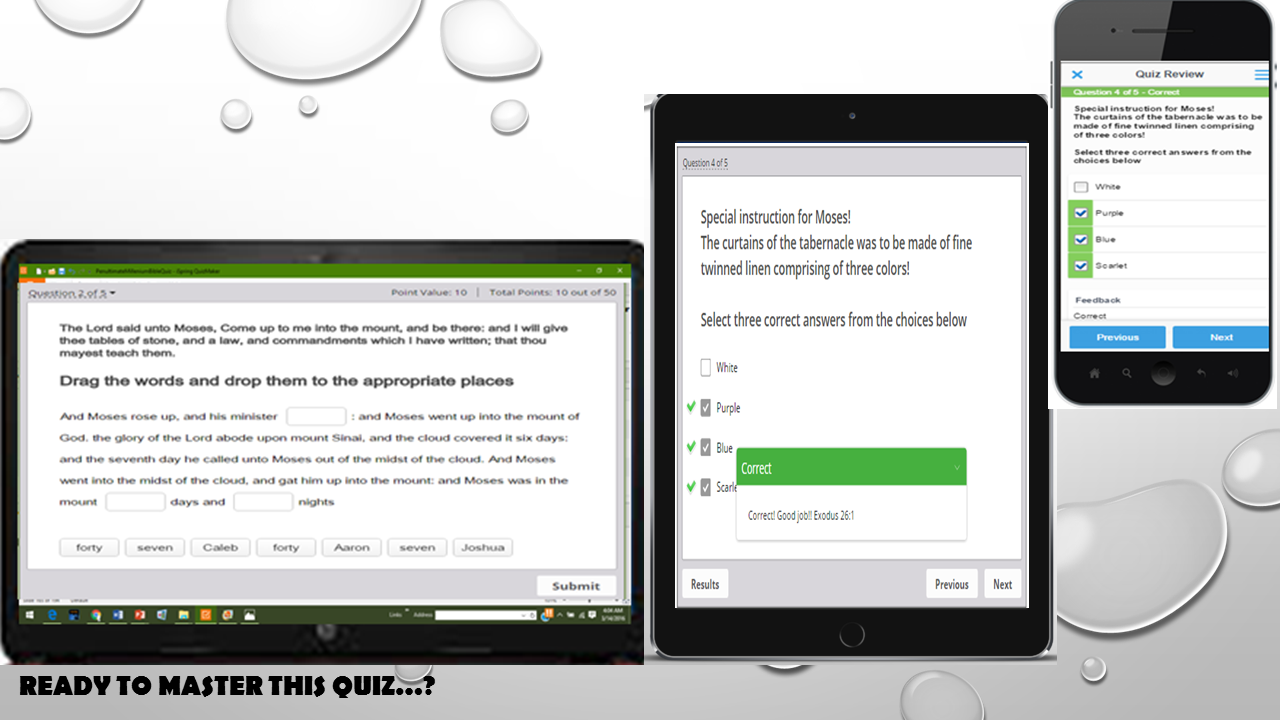
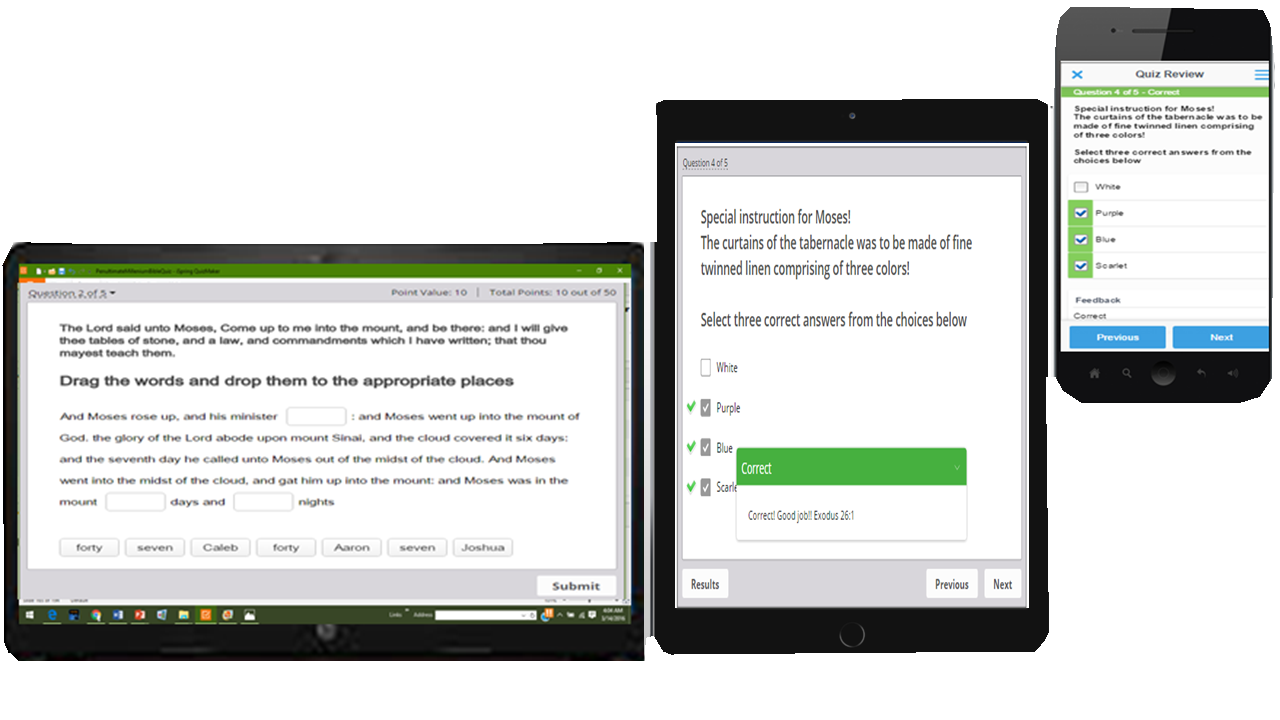
still working on writeup, waiting for image

diff --git a/resources/views/home.blade.php b/resources/views/home.blade.php
@@ -20,8 +20,8 @@ a web version and online segment of our overall package</strong></h1>
         <div class="item">
             <section class="site-section site-section-light site-section-top themed-background-dark-fire">
                 <div class="container">
-                    <h1 class="text-center animation-fadeIn360 hidden-xs"><strong>Featuring a Powerful and Flexible layout</strong></h1>
-                    <h2 class="text-center animation-fadeIn360 push hidden-xs">Letting you focus on creating your project</h2>
+                    <h1 class="text-center animation-fadeIn360 hidden-xs"><strong>We are available for churches, conventions and events</strong></h1>
+                    <h2 class="text-center animation-fadeIn360 push hidden-xs">We are here to serve you better</h2>
                     <p class="text-center animation-fadeInLeft">
                     	<img src="{{asset('img/placeholders/screenshots/promo_desktop_right.png')}}" alt="Promo Image 2">
                     </p>
@@ -31,8 +31,8 @@ a web version and online segment of our overall package</strong></h1>
         <div class="item">
             <section class="site-section site-section-light site-section-top themed-background-dark-amethyst">
                 <div class="container">
-                    <h1 class="text-center animation-hatch hidden-xs"><strong>Fully Responsive and Retina Ready</strong></h1>
-                    <h2 class="text-center animation-hatch push hidden-xs">The UI will look great and crisp</h2>
+                    <h1 class="text-center animation-hatch hidden-xs"><strong>Ready to master this quiz...?</strong></h1>
+                    <!--<h2 class="text-center animation-hatch push hidden-xs">The UI will look great and crisp</h2>-->
                     <p class="text-center animation-hatch">
                     <img src="{{asset('img/placeholders/screenshots/WB.png')}}" alt="Promo Image 3">
                     </p>
@@ -42,8 +42,9 @@ a web version and online segment of our overall package</strong></h1>
         <div class="item">
             <section class="site-section site-section-light site-section-top themed-background-dark-modern">
                 <div class="container">
-                    <h1 class="text-center animation-fadeInLeft hidden-xs"><strong>Tons of features are designed &amp; waiting for you</strong></h1>
-                    <h2 class="text-center animation-fadeInRight push hidden-xs">Everything you need for your project</h2>
+                    <h1 class="text-center animation-fadeInLeft hidden-xs"><strong> We have 200+ free
+BibleQuizzes for Kids and Teens </strong></h1>
+                    <h2 class="text-center animation-fadeInRight push hidden-xs">We are live on Television!</h2>
                     <p class="text-center animation-fadeIn360">
                     <img src="{{asset('img/placeholders/screenshots/promo_tablet.png')}}" alt="Promo Image 4">
                     </p>
@@ -88,7 +89,7 @@ a web version and online segment of our overall package</strong></h1>
              <img src="{{asset('img/placeholders/screenshots/promo_desktop_left.png')}}" class="img-responsive" alt="Promo #1">
             </div>
             <div class="col-sm-6 col-md-5 col-md-offset-1 site-block visibility-none" data-toggle="animation-appear" data-animation-class="animation-fadeInLeft" data-element-offset="-180">
-                <h3 class="h2 site-heading site-heading-promo"><strong>Clean and Modern</strong> Design</h3>
+                <h3 class="h2 site-heading site-heading-promo"><strong>Well structured</strong> Question</h3>
                 <p class="promo-content">We have well over 6000 BibleQuizzes online available for practice We also have more than 200 free BibleQuizzes for kids and teens Click on the link to participate or go directly to the link above for
 more <a href="features.html">Click here..</a></p>
             </div>
@@ -103,8 +104,10 @@ more <a href="features.html">Click here..</a></p>
     <div class="container">
         <div class="row">
             <div class="col-sm-6 col-md-5 site-block visibility-none" data-toggle="animation-appear" data-animation-class="animation-fadeInRight" data-element-offset="-180">
-                <h3 class="h2 site-heading site-heading-promo"><strong>Powerful</strong> Admin Template</h3>
-                <p class="promo-content">ProUI has a powerful and flexible layout to meet every need. It comes packed with 9 awesome and fresh color themes that you will love, too. <a href="features.html">Learn More..</a></p>
+                <h3 class="h2 site-heading site-heading-promo"><strong>Powerful</strong> Quiz Template</h3>
+                <p class="promo-content">With our unique Quiz template, our team will engage the
+audience in a lively BibleQuiz presentation
+ <a href="features.html">Learn More..</a></p>
             </div>
             <div class="col-sm-6 col-md-offset-1 site-block visibility-none" data-toggle="animation-appear" data-animation-class="animation-fadeInLeft" data-element-offset="-180">
             <img src="{{asset('img/placeholders/screenshots/promo_desktop_right.png')}}" class="img-responsive" alt="Promo #2">
@@ -123,8 +126,8 @@ more <a href="features.html">Click here..</a></p>
             <img src="{{asset('img/placeholders/screenshots/promo_tablet.png')}}" class="img-responsive" alt="Promo #3">
             </div>
             <div class="col-sm-6 col-md-5 col-md-offset-1 site-block visibility-none" data-toggle="animation-appear" data-animation-class="animation-fadeInLeft" data-element-offset="-180">
-                <h3 class="h2 site-heading site-heading-promo"><strong>Fully</strong> Responsive</h3>
-                <p class="promo-content">The User Interface will just work in mobile phones, tablets, laptops and desktops. You can focus on creating the project you want. <a href="features.html">Learn More..</a></p>
+                <h3 class="h2 site-heading site-heading-promo"><strong>Win a predetermined </strong>grand-prize</h3>
+                <p class="promo-content">Our Television audience engage in a series of competition for weeks until a winner emerge  <a href="features.html">Learn More..</a></p>
             </div>
         </div>
         <hr>
@@ -137,8 +140,10 @@ more <a href="features.html">Click here..</a></p>
     <div class="container">
         <div class="row">
             <div class="col-sm-6 col-md-5 site-block visibility-none" data-toggle="animation-appear" data-animation-class="animation-fadeInRight" data-element-offset="-180">
-                <h3 class="h2 site-heading site-heading-promo"><strong>Mobile</strong> First</h3>
-                <p class="promo-content">The layout adjusts as we move up from mobile devices to large desktop screens and not the other way around. This speed things up a lot. <a href="features.html">Learn More..</a></p>
+                <h3 class="h2 site-heading site-heading-promo"><strong>Get to Know</strong> us</h3>
+                <p class="promo-content">We encourage churches to send representatives for auditions. Use the available form to
+invite us to your church, seminars and
+events <a href="features.html">Learn More..</a></p>
             </div>
             <div class="col-sm-6 col-md-offset-1 site-block visibility-none" data-toggle="animation-appear" data-animation-class="animation-fadeInLeft" data-element-offset="-180">
             <img src="{{asset('img/placeholders/screenshots/promo_mobile.png')}}" class="img-responsive" alt="Promo #4">
@@ -204,7 +209,7 @@ more <a href="features.html">Click here..</a></p>
 <!-- Sign Up Action -->
 <section class="site-content site-section site-section-light themed-background-dark-night">
     <div class="container">
-        <h3 class="site-heading text-center"><strong>Sign Up Today</strong> and receive <strong>30% discount</strong>!</h3>
+        <h3 class="site-heading text-center"><strong>Sign Up Today</strong> and start a <strong>quiz</strong>!</h3>
         <div class="site-block text-center">
             <form action="features.html" method="post" class="form-horizontal" onsubmit="return false;">
                 <div class="form-group">

diff --git a/resources/views/pricing.blade.php b/resources/views/pricing.blade.php
@@ -39,7 +39,7 @@
                                         </tr>
                                         <tr>
                                             <td class="table-price">
-                                                <h1>$9<br><small>per month</small></h1>
+                                                <h1>&#8358;9<br><small>per month</small></h1>
                                             </td>
                                         </tr>
                                         <tr>
@@ -73,7 +73,7 @@
                                         </tr>
                                         <tr>
                                             <td class="table-price">
-                                                <h1>$39<br><small>per month</small></h1>
+                                                <h1> &#8358;39<br><small>per month</small></h1>
                                             </td>
                                         </tr>
                                         <tr>
@@ -107,7 +107,7 @@
                                         </tr>
                                         <tr>
                                             <td class="table-price">
-                                                <h1>$99<br><small>per month</small></h1>
+                                                <h1>&#8358;99<br><small>per month</small></h1>
                                             </td>
                                         </tr>
                                         <tr>
@@ -141,7 +141,7 @@
                                         </tr>
                                         <tr>
                                             <td class="table-price">
-                                                <h1>$199<br><small>per month</small></h1>
+                                                <h1>&#8358;199<br><small>per month</small></h1>
                                             </td>
                                         </tr>
                                         <tr>

diff --git a/resources/views/contact.blade.php b/resources/views/contact.blade.php
@@ -70,7 +70,13 @@
                             <div class="site-block">
                                 <h3 class="h2 site-heading"><strong>About</strong> Us</h3>
                                 <p class="remove-margin">
-                                    In hac habitasse platea dictumst. Proin ac nibh rutrum lectus rhoncus eleifend. Sed porttitor pretium venenatis. Suspendisse potenti. Aliquam quis ligula elit. Aliquam at orci ac neque semper dictum. Sed tincidunt scelerisque ligula, et facilisis nulla hendrerit non. Suspendisse potenti.
+                                    BibleMastery is
+a web version and online segment of our overall package.
+
+We have over 6000 BibleQuizzes online available for
+practice.We also have
+more than 200 free BibleQuizzes for kids and
+teens...
                                 </p>
                             </div>
                         </div>
